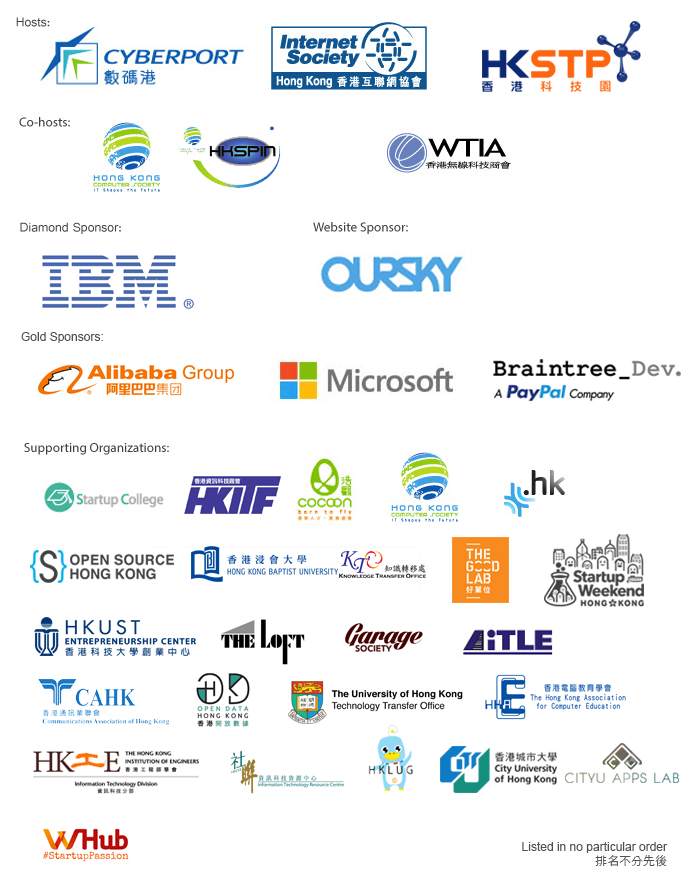
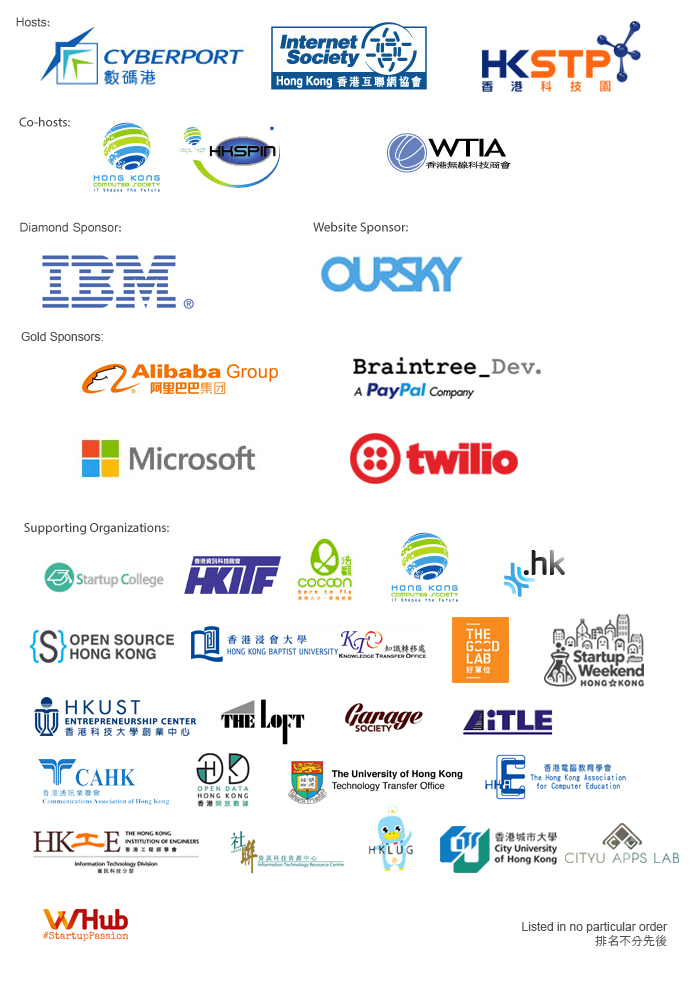
Update twilio and paypal speaker

diff --git a/web/index.html b/web/index.html
@@ -1028,6 +1028,12 @@
                   </td>
                 </tr>
                 <tr>
+                    <th></th>
+                    <th>Ocean View Court, the Arcade</th>
+                    <th>Function Room 1</th>
+                    <th>Function Room 2</th>
+                </tr>
+                <tr>
                   <td>13:30 &ndash; 14:00</td>
                   <td>
                     Meet MariaDB: The new MySQL<br/>
@@ -1039,12 +1045,6 @@
                   </td>
                   <td></td>
                 </tr>
-                <tr>
-                    <th></th>
-                    <th>Ocean View Court, the Arcade</th>
-                    <th>Function Room 1</th>
-                    <th>Function Room 2</th>
-                </tr
                 <tr>
                   <td>14:00 &ndash; 14:30</td>
                   <td>
@@ -1063,8 +1063,8 @@
                 <tr>
                   <td>14:30 &ndash; 15:00</td>
                   <td>
-                    The Rise of Mobile Payments<br/>
-                    Alan Wong, Developer Advocate - APAC, Braintree & Paypal
+                    Evolution of Payment Technologies<br/>
+                    Subhransu Behera, Mobile Developer, Braintree & Paypal
                   </td>
                   <td>
                     Building Machine Learning using Prediction IO - a recommender example<br/>
@@ -1155,16 +1155,13 @@
                       Build your web and mobile apps on Bluemix<br/>
                       Ying-Kit Wong, IBM Certified Solution Advisor - Cloud Computing Architecture, IBM Cloud
                   </td>
-                  <td>
-                    Web Layout with Flexbox<br/>
-                    Mak Seng Hin, Thomas, Assistant Manager for Information System & Technology Department, Macau Productivity and Technology Transfer Center
-                  </td>
+                  <Td</Td>
                 </tr>
                 <tr>
                   <td>12:00 &ndash; 13:00</td>
                   <td>
-                      Payments made easy!<br/>
-                      Alan Wong, Developer Advocate, APAC Braintree x Paypal
+                    Accept Payments in your Mobile Apps<br/>
+                    Subhransu Behera, Mobile Developer, Braintree & Paypal
                   </td>
                   <td>
                       Remote Usability Testing Workshop,<br/>
@@ -1183,14 +1180,17 @@
                       Methodology at Twitter for evaluating how to use growth hacking<br/>
                       Josh Aberant, Postmaster, Twitter
                   </td>
-                  <td></td>
+                  <td>
+                    Web Layout with Flexbox<br/>
+                    Mak Seng Hin, Thomas, Assistant Manager for Information System & Technology Department, Macau Productivity and Technology Transfer Center
+                  </td>
                 </tr>
               </tbody>
             </table>
 
             <p><strong>
               NOTE: The above agenda is subject to change and without prior notice.<br/>
-              <font color="red">NOTE: Extra ticket is required for these workshops.</font>
+              <font color="red">NOTE: Extra ticket is required for these workshops. Participants have to bring their own notebook.</font>
             </strong></p>
             </article>
           </div>
@@ -1237,6 +1237,7 @@
               <li><a href="http://alibaba.com"><img src="img/speakers/org-alibaba.png" alt="Alibaba"></li>
               <li><a href="http://microsoft.com"><img src="img/speakers/org-microsoft.png" alt="Microsoft"></a></li>
               <li><a href="http://paypal.com"><img src="img/speakers/org-paypal.png" alt="Paypal"></a></li>
+              <li><a href="http://twilio.com"><img src="img/speakers/org-twilio.png" alt="Twilio"></a></li>
           </ul>
           <!-- ><h2>Sponsor</h2>
           <ul>
